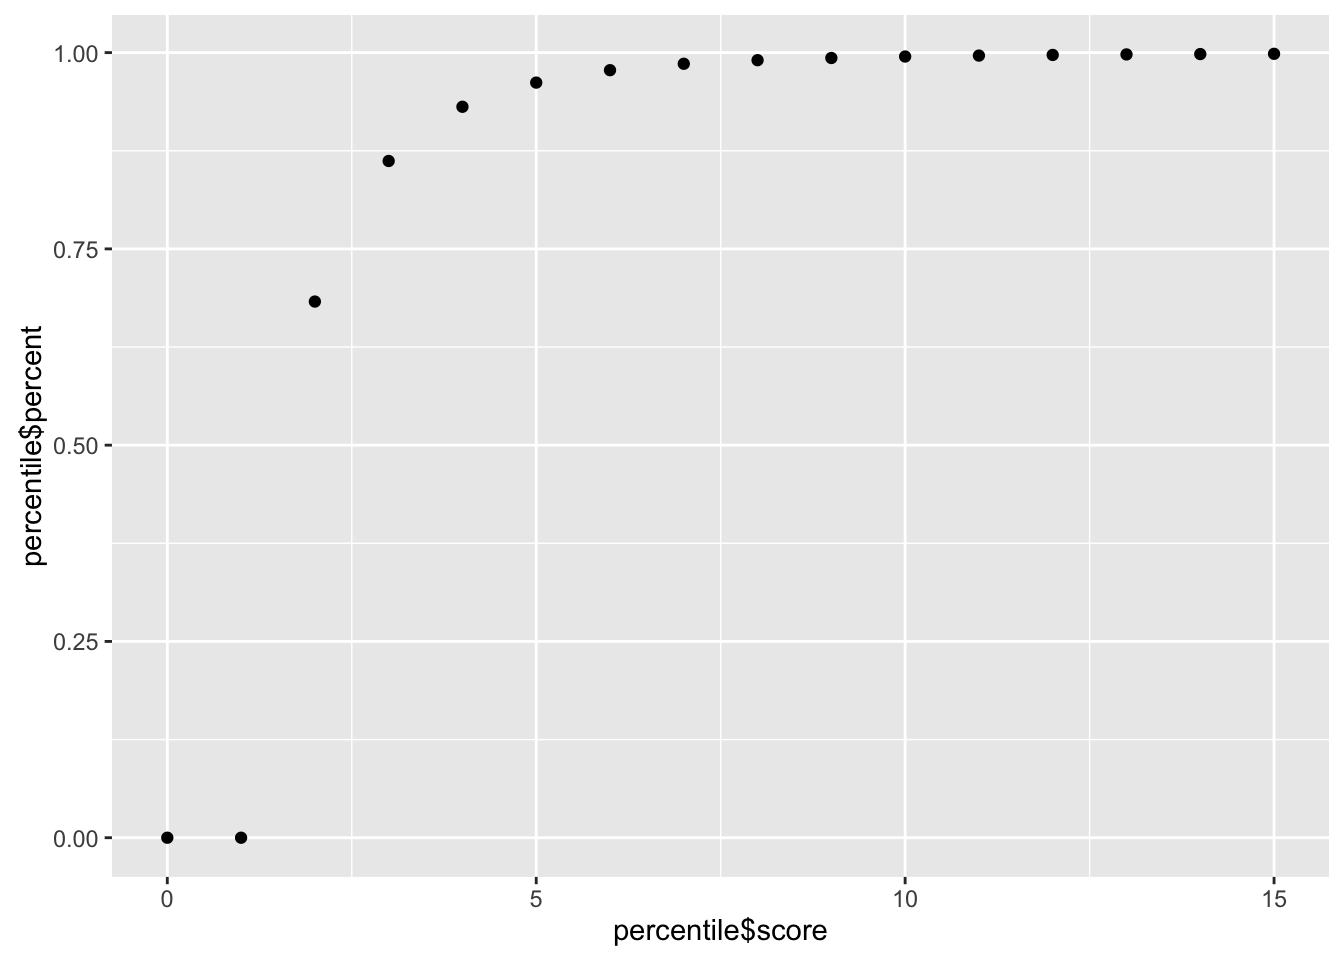
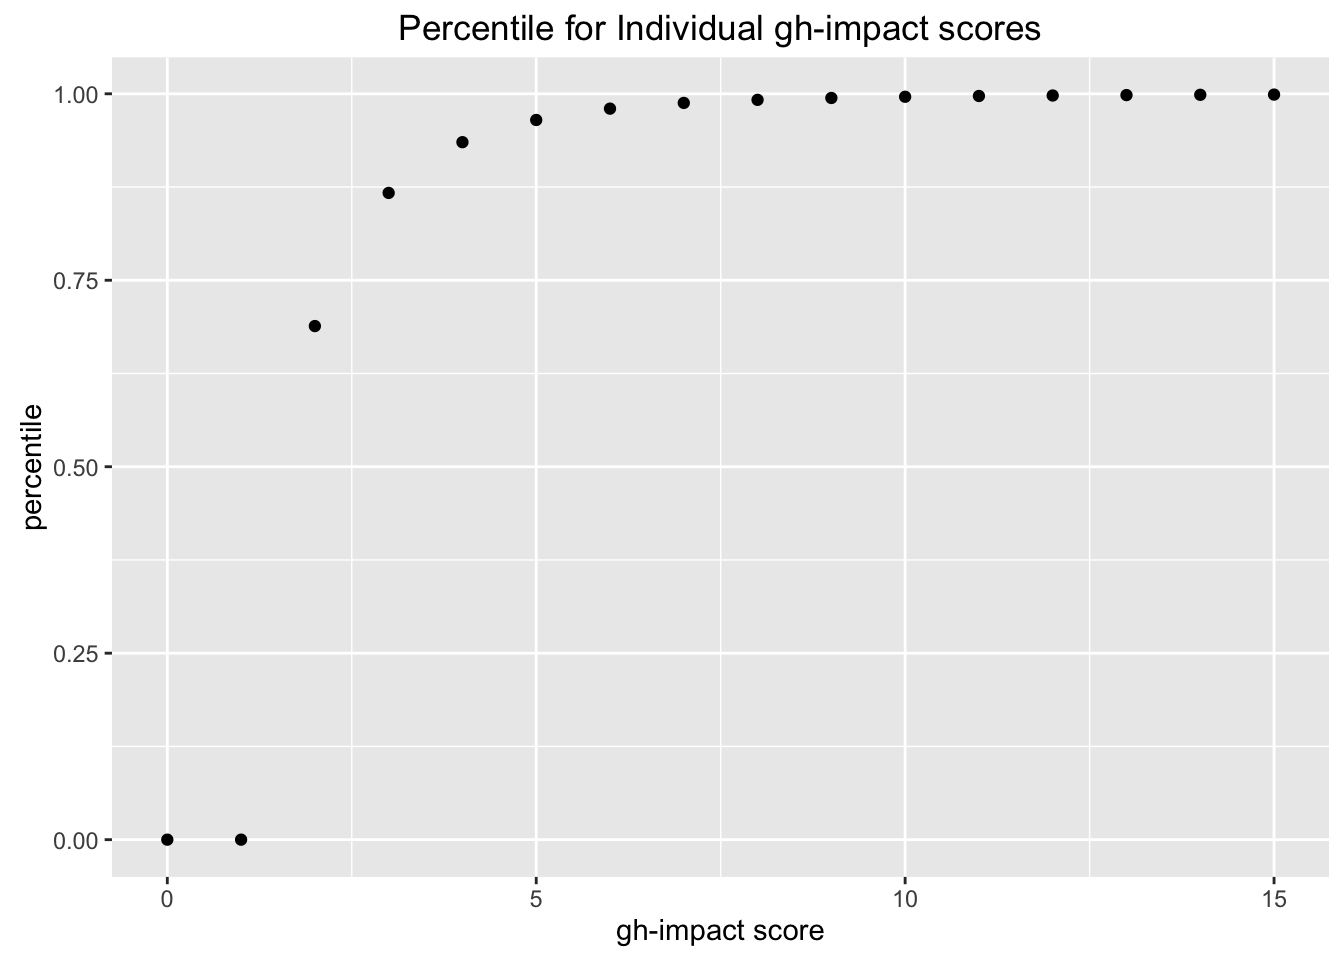
arrange report as a table, include organization percentiles

diff --git a/js/gh-impact.js b/js/gh-impact.js
@@ -399,17 +399,22 @@ var query = function() {
         return(false);
     }
 
+    // first clear all fields
+    $("#account_name").html("");
+    $("#impact_score").html("");
+    $("#percentile").html("");
+    $("#account_type").html("");
+
+    // then hide and reveal the correct blocks
     $("#masked").css("display", "block");
     $("#examples").css("display", "none");
     $("#search_box").css("display", "none");
 
     var bucket = $.md5(account_name.toLowerCase()).slice(0, 2);
-    console.log("bucket: " + bucket);
 
     $.getJSON( "data/json/" + bucket + ".json", function(data) {
         var account = data[account_name.toLowerCase()];
         if (account != undefined) {
-            console.log(account);
             $("#account_name").html("<a target='_blank' href='http://github.com/" + account["l"] + "'>" + account["l"] + "</a>");
             $("#impact_score").html("<a href='http://www.gh-impact.com/#" + account["l"] + "'>" + account["s"] + "</a>");
             if (account["t"] == 1) {
@@ -442,18 +447,49 @@ var query = function() {
 }
 
 var show_percentile = function(score, account_type) {
-    console.log("score: " + score);
-    console.log("type: " + account_type);
-
     var percentiles = [
-        [0.0000000, 0.0000000, 0.6829202, 0.8619581, 0.9310143, 0.9617953, 0.9776193, 0.9857905, 0.9903589, 0.9931521],
-        []
+        [
+            0.0000000,
+            0.0000000,
+            0.6885959,
+            0.8671090,
+            0.9351361,
+            0.9648836,
+            0.9800906,
+            0.9877688,
+            0.9918916,
+            0.9944002,
+            0.9960253,
+            0.9970601,
+            0.9977180,
+            0.9982583,
+            0.9986461,
+            0.9989227
+        ],
+        [
+            0.0000000,
+            0.0000000,
+            0.6473897,
+            0.8297125,
+            0.9052110,
+            0.9424624,
+            0.9621485,
+            0.9734064,
+            0.9807640,
+            0.9853394,
+            0.9887011,
+            0.9909582,
+            0.9927925,
+            0.9940676,
+            0.9950222,
+            0.9956905
+        ]
     ];
 
     var result;
 
     if (account_type == 1) { // individual
-        if (score < 10) {
+        if (score < 15) {
             result = Math.round(percentiles[0][score] * 100);
         }
         else {
@@ -461,7 +497,12 @@ var show_percentile = function(score, account_type) {
         }
     }
     else { //organziation
-        result = "not scored yet";
+        if (score < 15) {
+            result = Math.round(percentiles[1][score] * 100);
+        }
+        else {
+            result = 99;
+        }
     }
 
     $("#percentile").html(result);
@@ -484,6 +525,11 @@ var run_location = function() {
         $("#masked").css("display", "none");
         $("#account_name_query").val("");
         $("#search_box").css("display", "block");
+
+        setTimeout(function(){
+            $("#account_name_query").focus();
+        }, 1);
+
         show_examples();
     }
 }

diff --git a/_js/gh-impact.js b/_js/gh-impact.js
@@ -9,6 +9,13 @@ var query = function() {
         return(false);
     }
 
+    // first clear all fields
+    $("#account_name").html("");
+    $("#impact_score").html("");
+    $("#percentile").html("");
+    $("#account_type").html("");
+
+    // then hide and reveal the correct blocks
     $("#masked").css("display", "block");
     $("#examples").css("display", "none");
     $("#search_box").css("display", "none");
@@ -51,14 +58,48 @@ var query = function() {
 
 var show_percentile = function(score, account_type) {
     var percentiles = [
-        [0.0000000, 0.0000000, 0.6829202, 0.8619581, 0.9310143, 0.9617953, 0.9776193, 0.9857905, 0.9903589, 0.9931521],
-        []
+        [
+            0.0000000,
+            0.0000000,
+            0.6885959,
+            0.8671090,
+            0.9351361,
+            0.9648836,
+            0.9800906,
+            0.9877688,
+            0.9918916,
+            0.9944002,
+            0.9960253,
+            0.9970601,
+            0.9977180,
+            0.9982583,
+            0.9986461,
+            0.9989227
+        ],
+        [
+            0.0000000,
+            0.0000000,
+            0.6473897,
+            0.8297125,
+            0.9052110,
+            0.9424624,
+            0.9621485,
+            0.9734064,
+            0.9807640,
+            0.9853394,
+            0.9887011,
+            0.9909582,
+            0.9927925,
+            0.9940676,
+            0.9950222,
+            0.9956905
+        ]
     ];
 
     var result;
 
     if (account_type == 1) { // individual
-        if (score < 10) {
+        if (score < 15) {
             result = Math.round(percentiles[0][score] * 100);
         }
         else {
@@ -66,7 +107,12 @@ var show_percentile = function(score, account_type) {
         }
     }
     else { //organziation
-        result = "not scored yet";
+        if (score < 15) {
+            result = Math.round(percentiles[1][score] * 100);
+        }
+        else {
+            result = 99;
+        }
     }
 
     $("#percentile").html(result);
@@ -89,6 +135,11 @@ var run_location = function() {
         $("#masked").css("display", "none");
         $("#account_name_query").val("");
         $("#search_box").css("display", "block");
+
+        setTimeout(function(){
+            $("#account_name_query").focus();
+        }, 1);
+
         show_examples();
     }
 }

diff --git a/_html/index.html b/_html/index.html
@@ -6,7 +6,7 @@ permalink: /index.html
 <div class="home">
 
   <div id="search_box">
-    <h2>Enter a GitHub account name to learn their <em>gh-impact</em> Score</h2>
+    <h2>Enter a GitHub account to learn its <em>gh-impact</em> score</h2>
 
     <input id="account_name_query" type="text" name="account_name" tabindex="1" autofocus>
     <a id="search" class="button" href="#" tabindex="2">Search</a>
@@ -18,29 +18,29 @@ permalink: /index.html
       <h3><em>gh-impact</em> Report</h3>
 
       <p>
-        GitHub Profile: <span id="account_name"></span>
+        <span class="label">GitHub Profile:</span> <span id="account_name"></span>
       </p>
       <p>
-        <em>gh-impact</em> Score: <span id="impact_score"></span>
+        <span class="label"><em>gh-impact</em> Score:</span> <span id="impact_score"></span>
       </p>
       <p>
-        Percentile: <span id="percentile"></span>
+        <span class="label">Percentile:</span> <span id="percentile"></span>
       </p>
       <p>
-        Account type: <span id="account_type"></span>
+        <span class="label">Account type:</span> <span id="account_type"></span>
       </p>
     </div>
 
     <div id="brief">
       <p>
-      What does this number mean? <a href="/about/">Read more about it.</a>
+      What does the "<em>gh-impact</em> score" number mean? <a href="/about/">Read more about it here.</a>
       </p>
     </div>
 
   </div>
 
   <div id="examples">
-    <h3>examples</h3>
+    <h3>Example searches</h3>
 
     <ul>
       {% include examples.html %}

diff --git a/css/main.scss b/css/main.scss
@@ -117,3 +117,8 @@ $on-laptop:        800px;
   text-align: center;
   font-size: 0.7em;
 }
+
+.label {
+  display: inline-block;
+  width: 9em;
+}

diff --git a/_pages/about.md b/_pages/about.md
@@ -7,4 +7,8 @@ menu: main
 
 *gh-impact* is a measure of influence on GitHub.  *gh-impact* is based upon the stars a project receives: an account has a *gh-impact* score of **n** if they have **n** projects with **n** stars.  Higher *gh-impact* scores correspond to accounts that have many well-used projects.
 
-This brief summary omits many [crucial details](/answers/) that are essential to an understanding of *gh-impact*.  [Ongoing analysis](/analysis) is uncovering the relevance of *gh-impact* in explaining network and collective intelligence dynamics within GitHub.
+This brief summary omits [many crucial details](/answers/) that are essential to an understanding of *gh-impact*.  [Ongoing analysis](/analysis) is uncovering the relevance of *gh-impact* in explaining the network and collective intelligence dynamics of GitHub.
+
+### About the author
+
+[Ian Dennis Miller](http://imiller.utsc.utoronto.ca) is a PhD candidate at the University of Toronto.  His work focuses on memes, social networks, agent based modeling, and synthetic populations.

diff --git a/Todo.md b/Todo.md
@@ -34,8 +34,8 @@
 
 - [x] display account type on report
 - [x] report percentiles corresponding to scores based on a table lookup
+- [x] arrange report as a table or something
 - [ ] percentiles for organizations
-- [ ] arrange report as a table or something
 - [ ] use github API to retrieve other details about the user
 
 ## Analysis
@@ -59,3 +59,5 @@
 - [ ] promotion: /r/programming, HN, twitter
 - [ ] contact mechanism: is Twitter good enough?
 - [ ] register alternate domain names?
+- [ ] submit to HCOMP 2016 before August 15 at 5pm PST
+

diff --git a/_pages/analysis.md b/_pages/analysis.md
@@ -40,7 +40,7 @@ td {
 }
 </style>
 
-{% include analysis_percentile.txt %}
+{% include analysis_user_percentile.txt %}
 
 ## Is there a difference between individuals and organizations?
 
